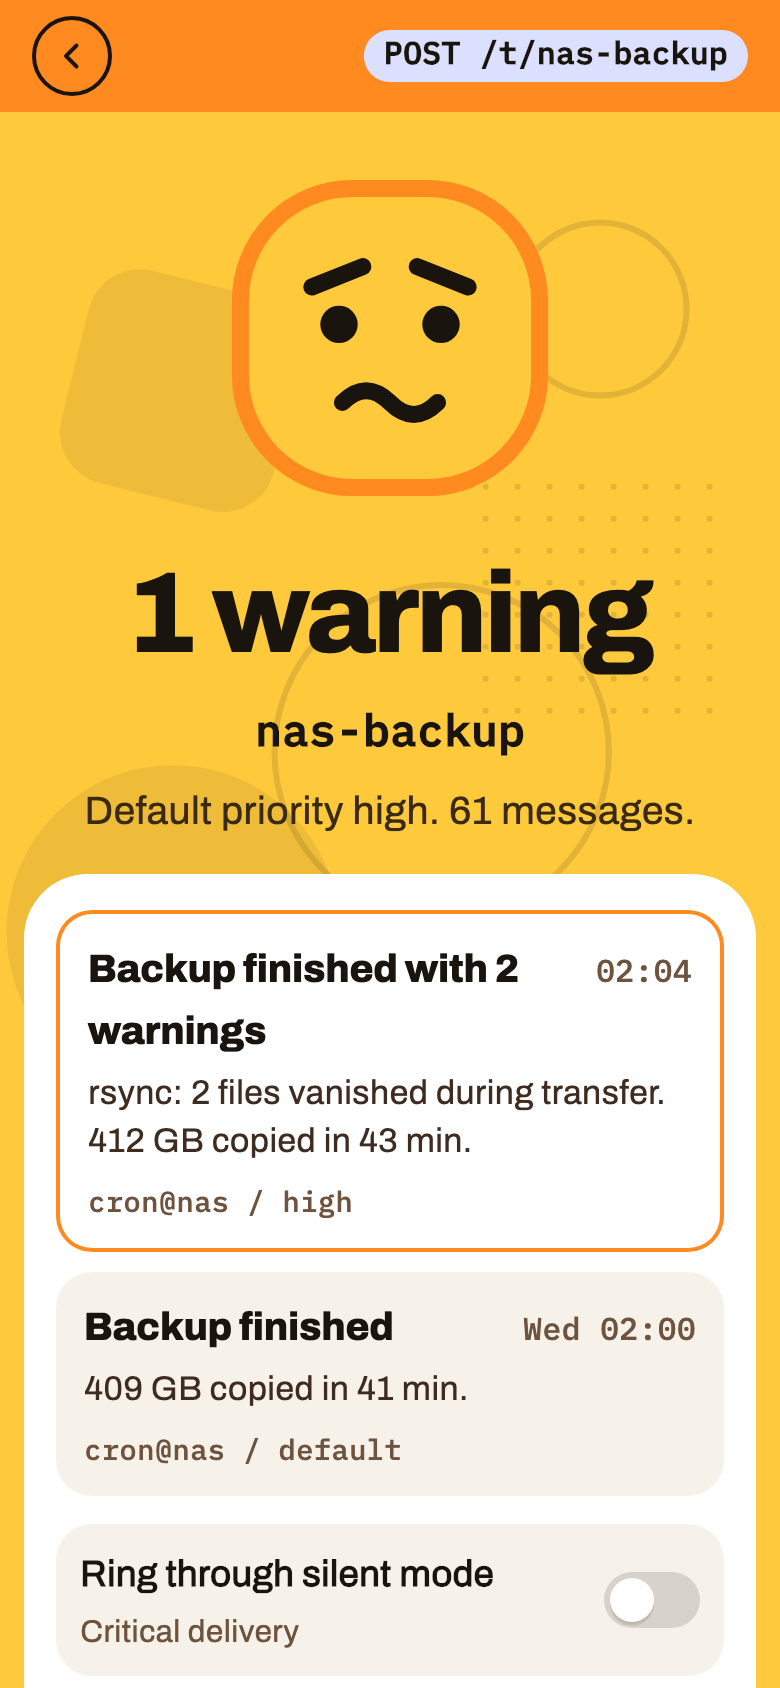
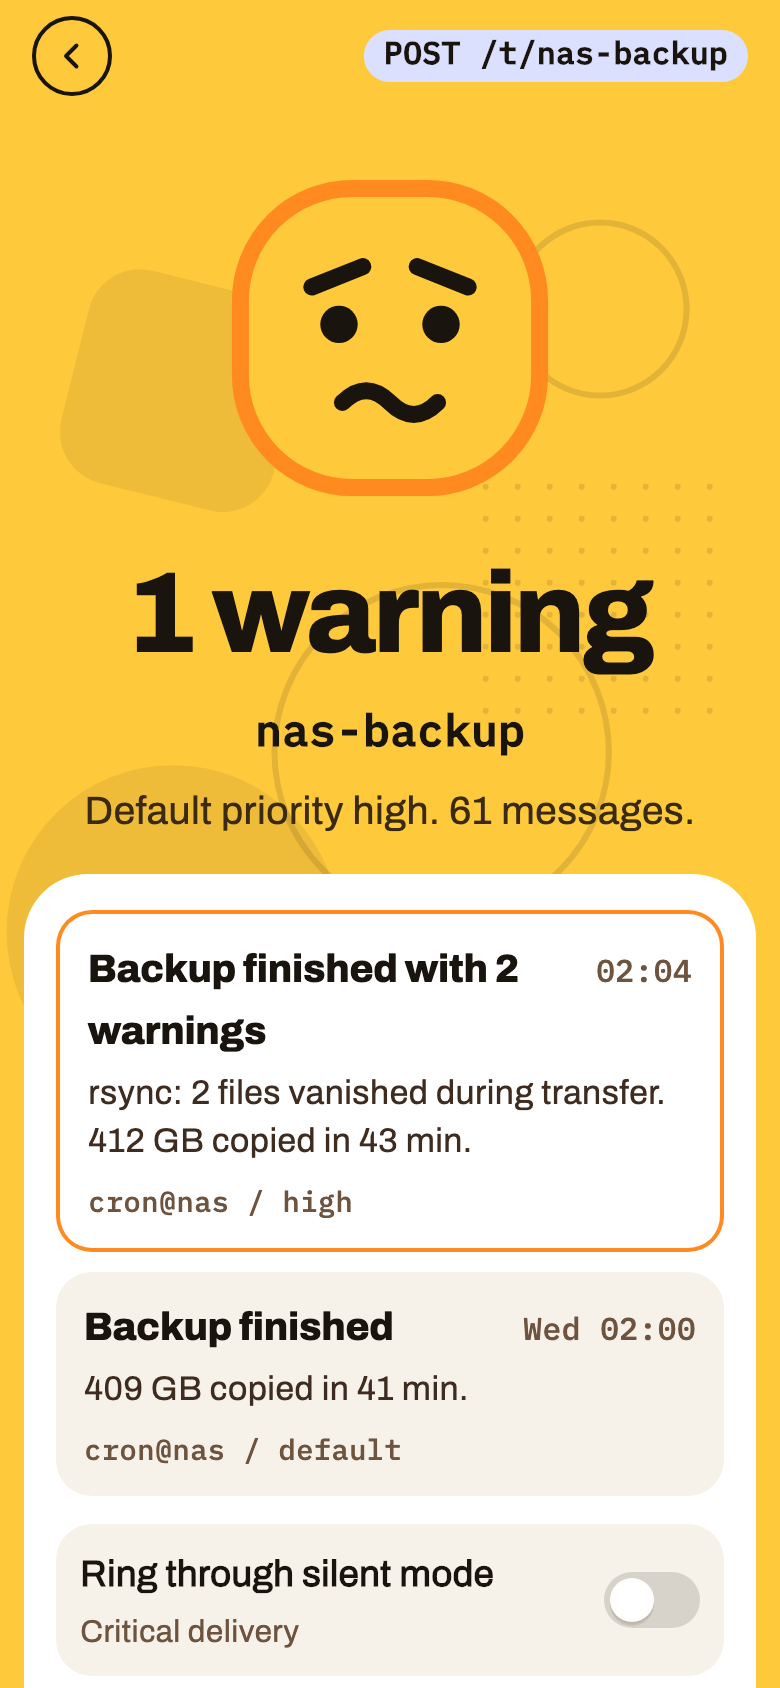
feat(design): make top bar transparent and force material transparency for scroll-behind

Changed region(s): [[0.0, 0.0, 1.0, 0.0924]]

diff --git a/lib/design/components/top_bar.dart b/lib/design/components/top_bar.dart
@@ -111,7 +111,7 @@ class AppSliverTopBar extends StatelessWidget {
   @override
   Widget build(BuildContext context) {
     final colors = context.appColors;
-    final bg = backgroundColor ?? colors.canvas;
+    final bg = backgroundColor ?? Colors.transparent;
 
     return SliverAppBar(
       pinned: pinned,
@@ -119,6 +119,9 @@ class AppSliverTopBar extends StatelessWidget {
       backgroundColor: bg,
       elevation: 0,
       scrolledUnderElevation: 0,
+      surfaceTintColor: Colors.transparent,
+      shadowColor: Colors.transparent,
+      forceMaterialTransparency: true,
       automaticallyImplyLeading: false,
       collapsedHeight: collapsedHeight,
       expandedHeight: expandedHeight,

diff --git a/lib/design/theme/theme.dart b/lib/design/theme/theme.dart
@@ -58,10 +58,11 @@ ThemeData _buildTheme(AppColors colors, Brightness brightness) {
     textTheme: textTheme,
     dividerTheme: DividerThemeData(color: colors.hairline, thickness: 1),
     appBarTheme: AppBarTheme(
-      backgroundColor: colors.canvas,
+      backgroundColor: Colors.transparent,
       foregroundColor: colors.onCanvas,
       surfaceTintColor: Colors.transparent,
       elevation: 0,
+      scrolledUnderElevation: 0,
       titleTextStyle: AppTypography.title(colors.onCanvas),
     ),
     cardTheme: CardThemeData(
